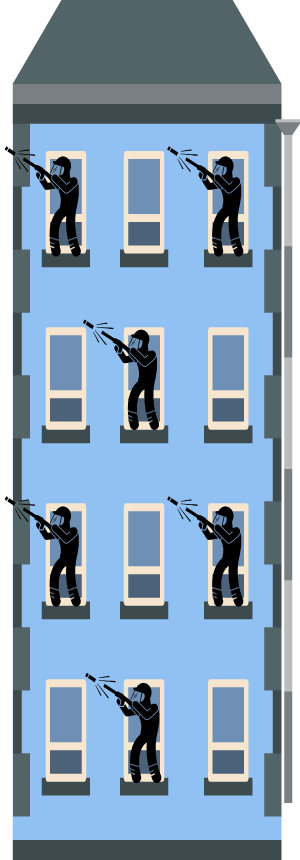
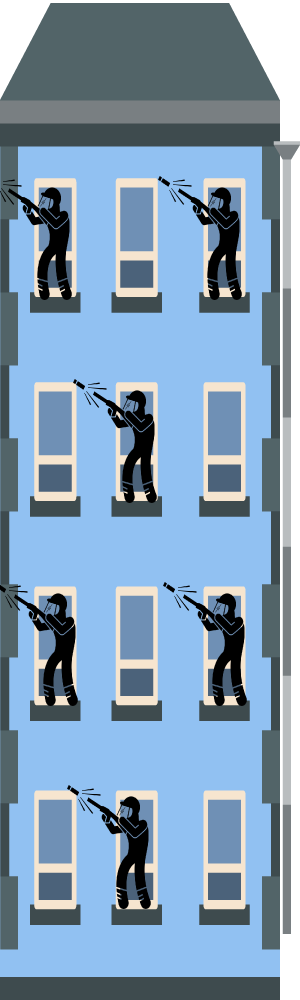
cambio fondo y edificios

diff --git a/core/src/com/mygdx/game/FlappyEsmad.java b/core/src/com/mygdx/game/FlappyEsmad.java
@@ -49,7 +49,7 @@ public class FlappyEsmad extends ApplicationAdapter {
 	@Override
 	public void create () {
 		batch = new SpriteBatch();
-		background = new Texture("fondo.jpg");
+		background = new Texture("fondo5.jpg");
 		capuchos = new Texture[2];
 		capuchos[0] = new Texture("capucho.png");
 		capuchos[1] = new Texture("capucho_2.png");
